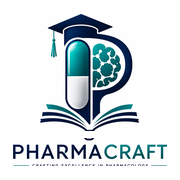
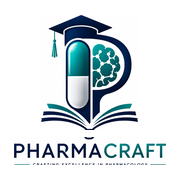
Add files via upload

Changed region(s): [[0.0556, 0.0556, 0.9444, 0.9444], [0.4722, 0.5556, 0.5, 0.5833]]

diff --git a/sw.js b/sw.js
@@ -1,7 +1,7 @@
 /* PharmaCraft Service Worker
    Cache-first for shell, network-first for HTML.
    Version bumped each deploy to force update. */
-const CACHE_VERSION = 'pharmacraft-v95-icon-with-name-20260815';
+const CACHE_VERSION = 'pharmacraft-v96-icon-circle-safe-20260815';
 const CORE_ASSETS = [
   '/',
   '/index.html',
